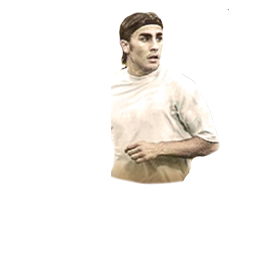
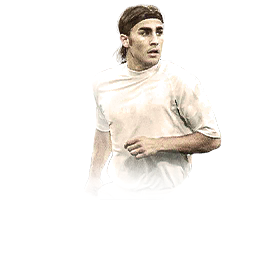
Updated FCMSquad

diff --git a/fcmsquad/resources/faceData2.js b/fcmsquad/resources/faceData2.js
@@ -279,6 +279,7 @@ const faceData2 = [
             "./resources/players/players_23/p44897_TITAN23.png",
             "./resources/players/players_23/p44897_SUPERHERO.png",
             "./resources/players/players_23/p44897_HERO_JOURNEYS.png",
+            "./resources/players/players_23/p44897_RE02.png",
             "./resources/players/players_22/p44897_HERO0.png",
             "./resources/players/players_22/p44897_HERO22.png",
             "./resources/players/players_23/p44897_TOTS22_LIVE.png"

diff --git a/fcmsquad/scripts/main.js b/fcmsquad/scripts/main.js
@@ -11,7 +11,7 @@ var visitCount = 0;
 var saveCount = 0;
 
 const specialCard = ["RuleBreakers24 아이콘", "트로피 아이콘"];
-const notices = "2024.07.22 업데이트<br><b>- RE02 미페 개선</b>";
+const notices = "2024.07.22 업데이트<br><b>- RE02 미페 개선 및 추가(J. 두덱 등)</b>";
 const nickData = [
     {nick: "팽이", name: "안토니"},
     {nick: "훔바훔바", name: "스티븐 제라드"},
